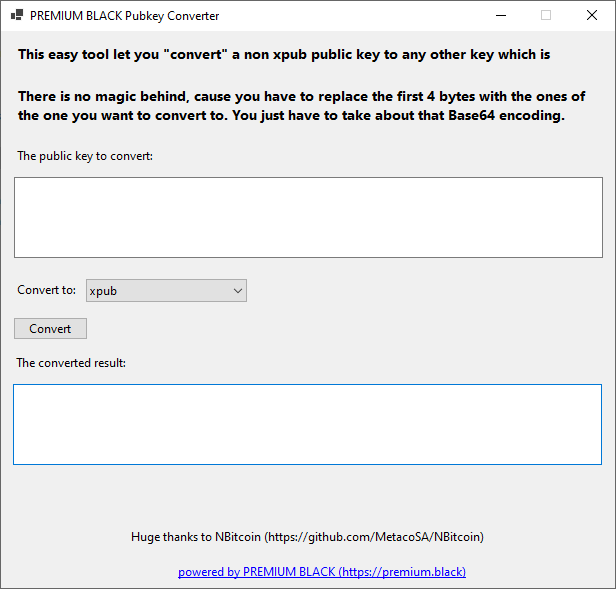
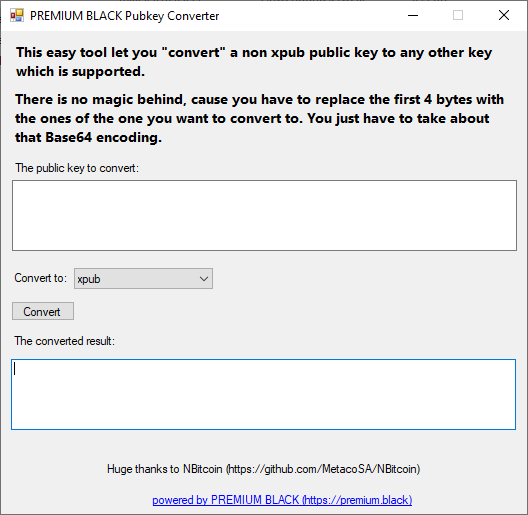
FIX: layout issue

diff --git a/frmMain.Designer.cs b/frmMain.Designer.cs
@@ -45,10 +45,10 @@
             // 
             this.label1.Anchor = ((System.Windows.Forms.AnchorStyles)(((System.Windows.Forms.AnchorStyles.Top | System.Windows.Forms.AnchorStyles.Left) 
             | System.Windows.Forms.AnchorStyles.Right)));
-            this.label1.Font = new System.Drawing.Font("Segoe UI", 10F, System.Drawing.FontStyle.Bold, System.Drawing.GraphicsUnit.Point);
-            this.label1.Location = new System.Drawing.Point(13, 13);
+            this.label1.Font = new System.Drawing.Font("Segoe UI", 10F, System.Drawing.FontStyle.Bold);
+            this.label1.Location = new System.Drawing.Point(11, 11);
             this.label1.Name = "label1";
-            this.label1.Size = new System.Drawing.Size(589, 23);
+            this.label1.Size = new System.Drawing.Size(505, 47);
             this.label1.TabIndex = 0;
             this.label1.Text = "This easy tool let you \"convert\" a non xpub public key to any other key which is " +
     "supported.";
@@ -57,10 +57,10 @@
             // 
             this.label2.Anchor = ((System.Windows.Forms.AnchorStyles)(((System.Windows.Forms.AnchorStyles.Top | System.Windows.Forms.AnchorStyles.Left) 
             | System.Windows.Forms.AnchorStyles.Right)));
-            this.label2.Font = new System.Drawing.Font("Segoe UI", 10F, System.Drawing.FontStyle.Bold, System.Drawing.GraphicsUnit.Point);
-            this.label2.Location = new System.Drawing.Point(13, 55);
+            this.label2.Font = new System.Drawing.Font("Segoe UI", 10F, System.Drawing.FontStyle.Bold);
+            this.label2.Location = new System.Drawing.Point(10, 58);
             this.label2.Name = "label2";
-            this.label2.Size = new System.Drawing.Size(589, 62);
+            this.label2.Size = new System.Drawing.Size(505, 60);
             this.label2.TabIndex = 0;
             this.label2.Text = "There is no magic behind, cause you have to replace the first 4 bytes with the on" +
     "es of the one you want to convert to. You just have to take about that Base64 en" +
@@ -69,9 +69,9 @@
             // label3
             // 
             this.label3.AutoSize = true;
-            this.label3.Location = new System.Drawing.Point(13, 117);
+            this.label3.Location = new System.Drawing.Point(11, 130);
             this.label3.Name = "label3";
-            this.label3.Size = new System.Drawing.Size(143, 15);
+            this.label3.Size = new System.Drawing.Size(131, 13);
             this.label3.TabIndex = 1;
             this.label3.Text = "The public key to convert:";
             // 
@@ -79,17 +79,17 @@
             // 
             this.txtPublicKeyIn.Anchor = ((System.Windows.Forms.AnchorStyles)(((System.Windows.Forms.AnchorStyles.Top | System.Windows.Forms.AnchorStyles.Left) 
             | System.Windows.Forms.AnchorStyles.Right)));
-            this.txtPublicKeyIn.Location = new System.Drawing.Point(13, 146);
+            this.txtPublicKeyIn.Location = new System.Drawing.Point(11, 149);
             this.txtPublicKeyIn.Multiline = true;
             this.txtPublicKeyIn.Name = "txtPublicKeyIn";
-            this.txtPublicKeyIn.Size = new System.Drawing.Size(589, 81);
+            this.txtPublicKeyIn.Size = new System.Drawing.Size(505, 71);
             this.txtPublicKeyIn.TabIndex = 2;
             // 
             // bnConvert
             // 
-            this.bnConvert.Location = new System.Drawing.Point(12, 286);
+            this.bnConvert.Location = new System.Drawing.Point(10, 270);
             this.bnConvert.Name = "bnConvert";
-            this.bnConvert.Size = new System.Drawing.Size(75, 23);
+            this.bnConvert.Size = new System.Drawing.Size(64, 20);
             this.bnConvert.TabIndex = 3;
             this.bnConvert.Text = "Convert";
             this.bnConvert.UseVisualStyleBackColor = true;
@@ -98,9 +98,9 @@
             // label4
             // 
             this.label4.AutoSize = true;
-            this.label4.Location = new System.Drawing.Point(12, 324);
+            this.label4.Location = new System.Drawing.Point(10, 303);
             this.label4.Name = "label4";
-            this.label4.Size = new System.Drawing.Size(117, 15);
+            this.label4.Size = new System.Drawing.Size(108, 13);
             this.label4.TabIndex = 1;
             this.label4.Text = "The converted result:";
             // 
@@ -108,10 +108,10 @@
             // 
             this.txtConverted.Anchor = ((System.Windows.Forms.AnchorStyles)(((System.Windows.Forms.AnchorStyles.Top | System.Windows.Forms.AnchorStyles.Left) 
             | System.Windows.Forms.AnchorStyles.Right)));
-            this.txtConverted.Location = new System.Drawing.Point(12, 353);
+            this.txtConverted.Location = new System.Drawing.Point(10, 328);
             this.txtConverted.Multiline = true;
             this.txtConverted.Name = "txtConverted";
-            this.txtConverted.Size = new System.Drawing.Size(589, 81);
+            this.txtConverted.Size = new System.Drawing.Size(505, 71);
             this.txtConverted.TabIndex = 2;
             // 
             // llLink
@@ -119,9 +119,9 @@
             this.llLink.Anchor = ((System.Windows.Forms.AnchorStyles)(((System.Windows.Forms.AnchorStyles.Bottom | System.Windows.Forms.AnchorStyles.Left) 
             | System.Windows.Forms.AnchorStyles.Right)));
             this.llLink.AutoSize = true;
-            this.llLink.Location = new System.Drawing.Point(174, 533);
+            this.llLink.Location = new System.Drawing.Point(149, 462);
             this.llLink.Name = "llLink";
-            this.llLink.Size = new System.Drawing.Size(295, 15);
+            this.llLink.Size = new System.Drawing.Size(266, 13);
             this.llLink.TabIndex = 4;
             this.llLink.TabStop = true;
             this.llLink.Text = "powered by PREMIUM BLACK (https://premium.black)";
@@ -131,17 +131,17 @@
             // 
             this.cmbTypes.DropDownStyle = System.Windows.Forms.ComboBoxStyle.DropDownList;
             this.cmbTypes.FormattingEnabled = true;
-            this.cmbTypes.Location = new System.Drawing.Point(85, 248);
+            this.cmbTypes.Location = new System.Drawing.Point(73, 237);
             this.cmbTypes.Name = "cmbTypes";
-            this.cmbTypes.Size = new System.Drawing.Size(161, 23);
+            this.cmbTypes.Size = new System.Drawing.Size(139, 21);
             this.cmbTypes.TabIndex = 5;
             // 
             // label5
             // 
             this.label5.AutoSize = true;
-            this.label5.Location = new System.Drawing.Point(13, 251);
+            this.label5.Location = new System.Drawing.Point(11, 240);
             this.label5.Name = "label5";
-            this.label5.Size = new System.Drawing.Size(66, 15);
+            this.label5.Size = new System.Drawing.Size(59, 13);
             this.label5.TabIndex = 1;
             this.label5.Text = "Convert to:";
             // 
@@ -149,18 +149,18 @@
             // 
             this.label6.Anchor = ((System.Windows.Forms.AnchorStyles)(((System.Windows.Forms.AnchorStyles.Bottom | System.Windows.Forms.AnchorStyles.Left) 
             | System.Windows.Forms.AnchorStyles.Right)));
-            this.label6.Location = new System.Drawing.Point(12, 493);
+            this.label6.Location = new System.Drawing.Point(10, 427);
             this.label6.Name = "label6";
-            this.label6.Size = new System.Drawing.Size(590, 24);
+            this.label6.Size = new System.Drawing.Size(506, 21);
             this.label6.TabIndex = 1;
             this.label6.Text = "Huge thanks to NBitcoin (https://github.com/MetacoSA/NBitcoin)";
             this.label6.TextAlign = System.Drawing.ContentAlignment.MiddleCenter;
             // 
             // frmMain
             // 
-            this.AutoScaleDimensions = new System.Drawing.SizeF(7F, 15F);
+            this.AutoScaleDimensions = new System.Drawing.SizeF(6F, 13F);
             this.AutoScaleMode = System.Windows.Forms.AutoScaleMode.Font;
-            this.ClientSize = new System.Drawing.Size(614, 557);
+            this.ClientSize = new System.Drawing.Size(526, 483);
             this.Controls.Add(this.label6);
             this.Controls.Add(this.cmbTypes);
             this.Controls.Add(this.llLink);
